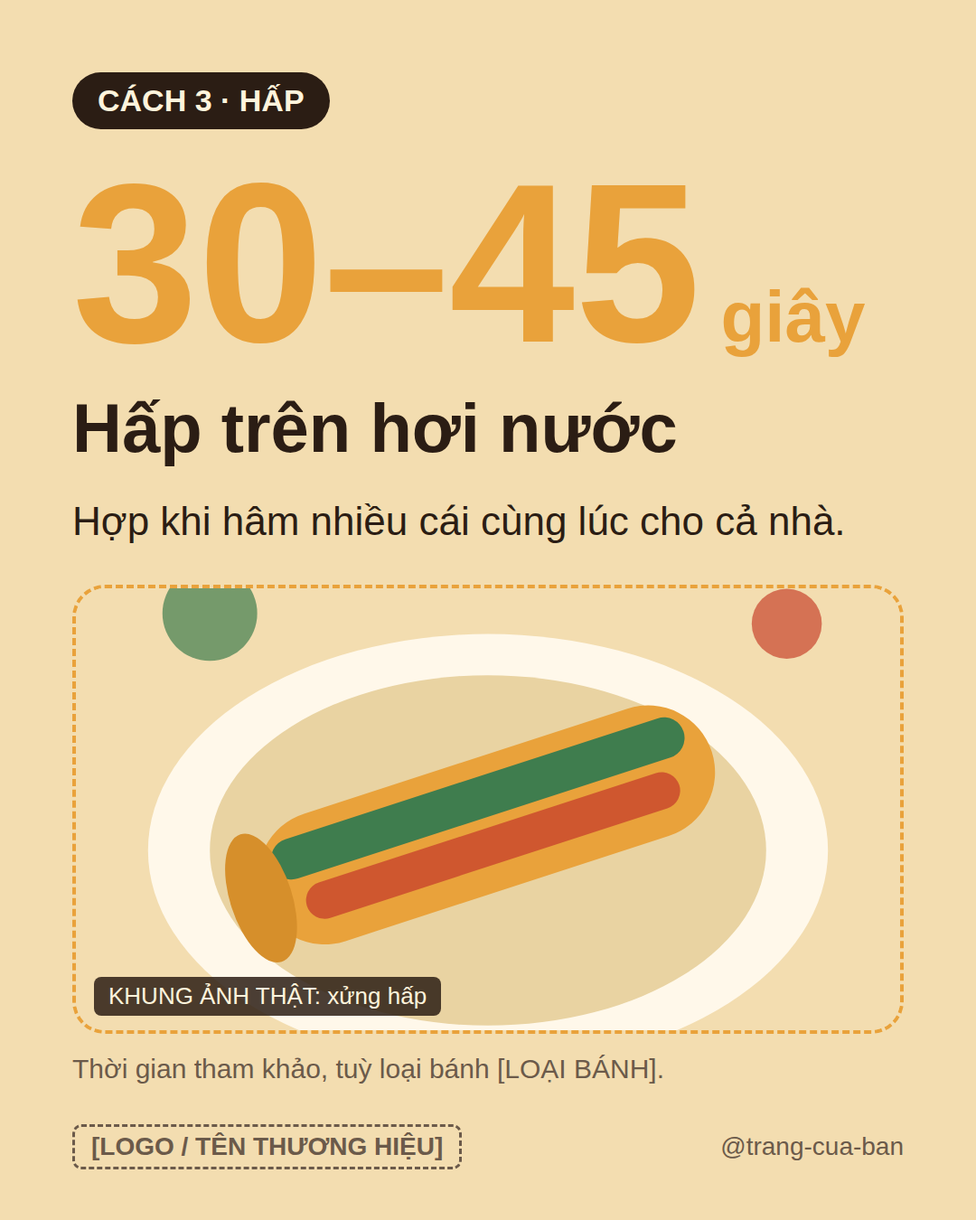
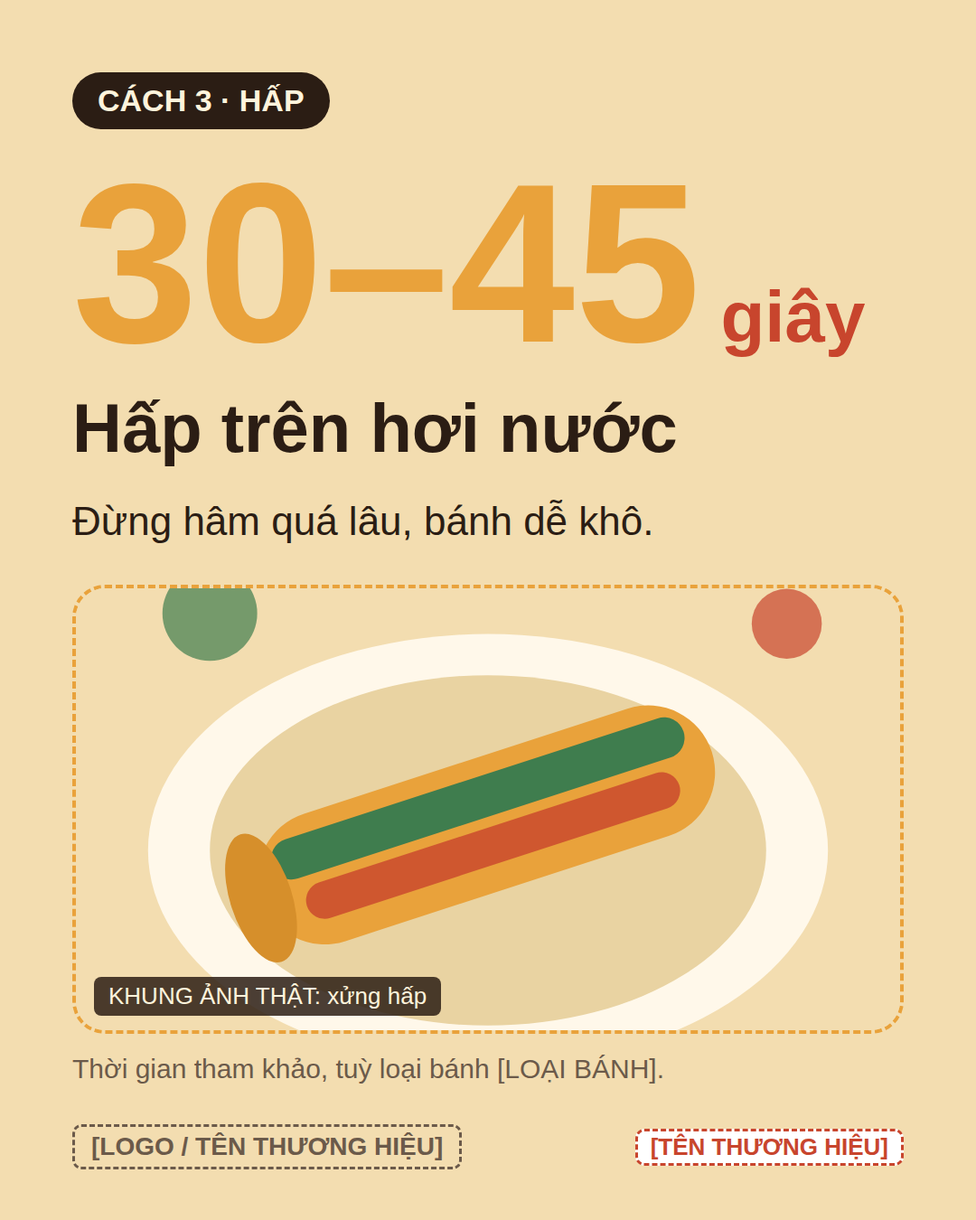
Marketing: sửa thiết kế và bài 7 tortillas vòng 1
Claude-Session: https://claude.ai/code/session_01Kq3X1y8geurvq5mnJxo66X

Changed region(s): [[0.0917, 0.4044, 0.8556, 0.4667], [0.6417, 0.9022, 0.9472, 0.9644], [0.7333, 0.2178, 0.8861, 0.3111]]

diff --git a/marketing/2026-10-03-ke-hoach-1-tuan-10-bai-banh-tortillas/mau/a-carousel-ham-banh.html b/marketing/2026-10-03-ke-hoach-1-tuan-10-bai-banh-tortillas/mau/a-carousel-ham-banh.html
@@ -8,42 +8,42 @@
 .s2{background:var(--bot)} .s3{background:#FBE3B8} .dk{background:var(--nau);color:var(--kem)}
 </style></head><body>
 <section class="slide" id="s1" style="background:var(--vang)">
- <span class="tag" style="background:var(--nau)">MẸO BẾP 10 GIÂY</span>
+ <span class="tag" style="background:var(--nau)">MẸO BẾP NHANH</span>
  <div class="h1" style="margin-top:50px">Hâm bánh<br>mềm, không khô:<br><span style="color:var(--kem)">3 cách</span></div>
  <div class="photo" style="height:430px;margin-top:50px;border-color:var(--nau)"><svg viewBox="0 0 800 600" preserveAspectRatio="xMidYMid slice"><rect width="800" height="600" fill="#F3DDB0"/><ellipse cx="400" cy="340" rx="330" ry="210" fill="#fff8ea"/><ellipse cx="400" cy="340" rx="270" ry="170" fill="#e9d3a2"/><g transform="rotate(-18 400 320)"><rect x="170" y="250" width="460" height="130" rx="65" fill="#E9A23B"/><rect x="190" y="268" width="420" height="40" rx="20" fill="#3F7D4E"/><rect x="210" y="318" width="380" height="36" rx="18" fill="#C8452D" opacity=".8"/><ellipse cx="170" cy="315" rx="30" ry="65" fill="#d68f2b"/></g><circle cx="130" cy="110" r="46" fill="#3F7D4E" opacity=".7"/><circle cx="690" cy="120" r="34" fill="#C8452D" opacity=".7"/></svg><span class="cap">KHUNG ẢNH THẬT: bánh vừa hâm, gập đôi</span></div>
- <div class="body" style="margin-top:36px;font-weight:700">Vuốt sang để xem →</div><div class="foot"><span class="logo">[LOGO / TÊN THƯƠNG HIỆU]</span><span>@trang-cua-ban</span></div>
+ <div class="body" style="margin-top:36px;font-weight:700">Vuốt sang để xem →</div><div class="foot"><span class="logo">[LOGO / TÊN THƯƠNG HIỆU]</span><span class="blank" style="font-size:26px">[TÊN THƯƠNG HIỆU]</span></div>
 </section>
 <section class="slide s2" id="s2">
  <span class="tag">CÁCH 1 · CHẢO</span>
- <div class="num" style="margin-top:30px">10–15<span style="font-size:80px"> giây</span></div>
+ <div class="num" style="margin-top:30px">10–15<span style="font-size:80px;color:var(--ot)"> giây</span></div>
  <div class="h2" style="margin-top:20px">Mỗi mặt trên chảo nóng</div>
- <div class="body" style="margin-top:30px">Không cần dầu. Lật khi bánh phồng nhẹ và thơm.</div>
  <div class="photo pf"><svg viewBox="0 0 800 600" preserveAspectRatio="xMidYMid slice"><rect width="800" height="600" fill="#F3DDB0"/><ellipse cx="400" cy="340" rx="330" ry="210" fill="#fff8ea"/><ellipse cx="400" cy="340" rx="270" ry="170" fill="#e9d3a2"/><g transform="rotate(-18 400 320)"><rect x="170" y="250" width="460" height="130" rx="65" fill="#E9A23B"/><rect x="190" y="268" width="420" height="40" rx="20" fill="#3F7D4E"/><rect x="210" y="318" width="380" height="36" rx="18" fill="#C8452D" opacity=".8"/><ellipse cx="170" cy="315" rx="30" ry="65" fill="#d68f2b"/></g><circle cx="130" cy="110" r="46" fill="#3F7D4E" opacity=".7"/><circle cx="690" cy="120" r="34" fill="#C8452D" opacity=".7"/></svg><span class="cap">KHUNG ẢNH THẬT: bánh trên chảo</span></div>
- <div class="note" style="margin:22px 0 0">Thời gian tham khảo, tuỳ loại bánh [LOẠI BÁNH].</div><div class="foot"><span class="logo">[LOGO / TÊN THƯƠNG HIỆU]</span><span>@trang-cua-ban</span></div>
+ <div class="note" style="margin:22px 0 0">Thời gian tham khảo, tuỳ loại bánh [LOẠI BÁNH].</div><div class="foot"><span class="logo">[LOGO / TÊN THƯƠNG HIỆU]</span><span class="blank" style="font-size:26px">[TÊN THƯƠNG HIỆU]</span></div>
 </section>
 <section class="slide s3" id="s3">
  <span class="tag" style="background:var(--la)">CÁCH 2 · LÒ VI SÓNG</span>
- <div class="num" style="margin-top:30px">15–30<span style="font-size:80px"> giây</span></div>
- <div class="h2" style="margin-top:20px">Bọc khăn ẩm, 1 lớp</div>
- <div class="body" style="margin-top:30px">Hơi ẩm giữ bánh mềm, dễ cuốn, ít nứt.</div>
+ <div class="num" style="margin-top:30px">15–30<span style="font-size:80px;color:var(--ot)"> giây</span></div>
+ <div class="h2" style="margin-top:20px">Bọc khăn/giấy bếp ẩm</div>
+ <div class="body" style="margin-top:30px">Đừng cho quá nhiều sốt, bánh dễ nhão.</div>
  <div class="photo pf"><svg viewBox="0 0 800 600" preserveAspectRatio="xMidYMid slice"><rect width="800" height="600" fill="#F3DDB0"/><ellipse cx="400" cy="340" rx="330" ry="210" fill="#fff8ea"/><ellipse cx="400" cy="340" rx="270" ry="170" fill="#e9d3a2"/><g transform="rotate(-18 400 320)"><rect x="170" y="250" width="460" height="130" rx="65" fill="#E9A23B"/><rect x="190" y="268" width="420" height="40" rx="20" fill="#3F7D4E"/><rect x="210" y="318" width="380" height="36" rx="18" fill="#C8452D" opacity=".8"/><ellipse cx="170" cy="315" rx="30" ry="65" fill="#d68f2b"/></g><circle cx="130" cy="110" r="46" fill="#3F7D4E" opacity=".7"/><circle cx="690" cy="120" r="34" fill="#C8452D" opacity=".7"/></svg><span class="cap">KHUNG ẢNH THẬT: bánh bọc khăn ẩm</span></div>
- <div class="note" style="margin:22px 0 0">Thời gian tham khảo, tuỳ loại bánh [LOẠI BÁNH].</div><div class="foot"><span class="logo">[LOGO / TÊN THƯƠNG HIỆU]</span><span>@trang-cua-ban</span></div>
+ <div class="note" style="margin:22px 0 0">Thời gian tham khảo, tuỳ loại bánh [LOẠI BÁNH].</div><div class="foot"><span class="logo">[LOGO / TÊN THƯƠNG HIỆU]</span><span class="blank" style="font-size:26px">[TÊN THƯƠNG HIỆU]</span></div>
 </section>
 <section class="slide s2" id="s4">
  <span class="tag" style="background:var(--nau)">CÁCH 3 · HẤP</span>
- <div class="num" style="margin-top:30px">30–45<span style="font-size:80px"> giây</span></div>
+ <div class="num" style="margin-top:30px">30–45<span style="font-size:80px;color:var(--ot)"> giây</span></div>
  <div class="h2" style="margin-top:20px">Hấp trên hơi nước</div>
- <div class="body" style="margin-top:30px">Hợp khi hâm nhiều cái cùng lúc cho cả nhà.</div>
+ <div class="body" style="margin-top:30px">Đừng hâm quá lâu, bánh dễ khô.</div>
  <div class="photo pf"><svg viewBox="0 0 800 600" preserveAspectRatio="xMidYMid slice"><rect width="800" height="600" fill="#F3DDB0"/><ellipse cx="400" cy="340" rx="330" ry="210" fill="#fff8ea"/><ellipse cx="400" cy="340" rx="270" ry="170" fill="#e9d3a2"/><g transform="rotate(-18 400 320)"><rect x="170" y="250" width="460" height="130" rx="65" fill="#E9A23B"/><rect x="190" y="268" width="420" height="40" rx="20" fill="#3F7D4E"/><rect x="210" y="318" width="380" height="36" rx="18" fill="#C8452D" opacity=".8"/><ellipse cx="170" cy="315" rx="30" ry="65" fill="#d68f2b"/></g><circle cx="130" cy="110" r="46" fill="#3F7D4E" opacity=".7"/><circle cx="690" cy="120" r="34" fill="#C8452D" opacity=".7"/></svg><span class="cap">KHUNG ẢNH THẬT: xửng hấp</span></div>
- <div class="note" style="margin:22px 0 0">Thời gian tham khảo, tuỳ loại bánh [LOẠI BÁNH].</div><div class="foot"><span class="logo">[LOGO / TÊN THƯƠNG HIỆU]</span><span>@trang-cua-ban</span></div>
+ <div class="note" style="margin:22px 0 0">Thời gian tham khảo, tuỳ loại bánh [LOẠI BÁNH].</div><div class="foot"><span class="logo">[LOGO / TÊN THƯƠNG HIỆU]</span><span class="blank" style="font-size:26px">[TÊN THƯƠNG HIỆU]</span></div>
 </section>
 <section class="slide dk" id="s5">
  <span class="tag" style="background:var(--vang);color:var(--nau)">NHỚ NHÉ</span>
  <div class="h1" style="margin-top:50px;font-size:130px">Hâm vừa đủ,<br>sốt vừa đủ.</div>
  <div class="body" style="margin-top:50px">Hâm lâu thì khô, rách. Sốt nhiều thì nhão, khó cuốn.</div>
  <div style="margin-top:40px;font-size:40px;line-height:1.7;color:var(--vang);font-weight:700">Chảo · 10–15 giây/mặt<br>Lò vi sóng · 15–30 giây<br>Hấp · 30–45 giây</div>
+ <div style="margin-top:14px;font-size:30px;color:#d9c9a8">Thời gian tham khảo, tuỳ loại bánh.</div>
  <div style="margin-top:auto;background:var(--vang);color:var(--nau);border-radius:36px;padding:44px 48px">
   <div class="h2" style="font-size:64px">Lưu bài về bếp 🔖</div>
   <div class="body" style="margin-top:12px">Nhắn <b>[CÁCH ĐẶT HÀNG]</b> nếu cần bánh.</div></div>
- <div class="foot" style="color:#d9c9a8"><span class="logo" style="border-color:#d9c9a8">[LOGO / TÊN THƯƠNG HIỆU]</span><span>@trang-cua-ban</span></div>
+ <div class="foot" style="color:#d9c9a8"><span class="logo" style="border-color:#d9c9a8">[LOGO / TÊN THƯƠNG HIỆU]</span><span class="blank" style="font-size:26px">[TÊN THƯƠNG HIỆU]</span></div>
 </section></body></html>

diff --git a/marketing/2026-10-03-ke-hoach-1-tuan-10-bai-banh-tortillas/mau/b-the-cong-thuc-wrap-ga.html b/marketing/2026-10-03-ke-hoach-1-tuan-10-bai-banh-tortillas/mau/b-the-cong-thuc-wrap-ga.html
@@ -16,13 +16,13 @@
  <div class="photo" style="height:290px;margin-top:30px"><svg viewBox="0 0 800 600" preserveAspectRatio="xMidYMid slice"><rect width="800" height="600" fill="#F3DDB0"/><ellipse cx="400" cy="340" rx="330" ry="210" fill="#fff8ea"/><ellipse cx="400" cy="340" rx="270" ry="170" fill="#e9d3a2"/><g transform="rotate(-18 400 320)"><rect x="170" y="250" width="460" height="130" rx="65" fill="#E9A23B"/><rect x="190" y="268" width="420" height="40" rx="20" fill="#3F7D4E"/><rect x="210" y="318" width="380" height="36" rx="18" fill="#C8452D" opacity=".8"/><ellipse cx="170" cy="315" rx="30" ry="65" fill="#d68f2b"/></g><circle cx="130" cy="110" r="46" fill="#3F7D4E" opacity=".7"/><circle cx="690" cy="120" r="34" fill="#C8452D" opacity=".7"/></svg><span class="cap">KHUNG ẢNH THẬT: wrap cắt đôi</span></div>
  <div class="cols">
   <div class="card" style="flex:.85"><h3>Chuẩn bị</h3><ul>
-   <li>Bánh tortilla</li><li>Gà áp chảo</li><li>Xà lách, dưa leo</li><li>Sốt mayo chanh</li></ul></div>
+   <li><span class="blank" style="font-size:28px;padding:0 8px">[LOẠI BÁNH]</span></li><li>Gà ướp tỏi, muối, tiêu</li><li>Xà lách, dưa leo, cà chua, rau thơm</li><li>Mayo trộn chanh</li></ul></div>
   <div class="card" style="flex:1.15"><h3>Làm nhanh</h3>
    <div class="step"><b>1</b><span>Áp chảo gà cho chín vàng.</span></div>
    <div class="step"><b>2</b><span>Hâm bánh trên chảo nóng.</span></div>
-   <div class="step"><b>3</b><span>Xếp rau, gà, quệt sốt.</span></div>
+   <div class="step"><b>3</b><span>Xếp rau, gà, rưới sốt vừa phải.</span></div>
    <div class="step"><b>4</b><span>Cuốn chặt, cắt đôi.</span></div></div>
  </div>
- <div style="margin-top:20px;font-size:30px;color:var(--xam)">Định lượng: <span class="blank">[THEO CÔNG THỨC BÀI VIẾT]</span></div>
- <div class="foot"><span class="logo">[LOGO / TÊN THƯƠNG HIỆU]</span><span>@trang-cua-ban</span></div>
+ <div style="margin-top:20px;font-size:30px;color:var(--xam)">Định lượng: <b>2 tấm bánh · 1–2 phần · khoảng 10 phút (ước tính)</b></div>
+ <div class="foot"><span class="logo">[LOGO / TÊN THƯƠNG HIỆU]</span><span class="blank" style="font-size:26px">[TÊN THƯƠNG HIỆU]</span></div>
 </section></body></html>

diff --git a/marketing/2026-10-03-ke-hoach-1-tuan-10-bai-banh-tortillas/mau/c-bai-ban-hang.html b/marketing/2026-10-03-ke-hoach-1-tuan-10-bai-banh-tortillas/mau/c-bai-ban-hang.html
@@ -7,7 +7,7 @@
 <section class="slide" id="c" style="padding:0;background:var(--nau)">
  <div style="padding:70px 80px 0;background:var(--vang)">
   <span class="tag" style="background:var(--nau)">ĐẶT BÁNH CUỐI TUẦN</span>
-  <div class="h1" style="font-size:96px;margin-top:20px;padding-bottom:36px">Bánh mềm,<br>cuốn là ngon.</div>
+  <div class="h1" style="font-size:96px;margin-top:20px;padding-bottom:36px">Cuối tuần cuốn gì?<br>Nhắn mình!</div>
  </div>
  <div class="photo" style="margin:-10px 80px 0;height:290px;border-color:var(--kem)"><svg viewBox="0 0 800 600" preserveAspectRatio="xMidYMid slice"><rect width="800" height="600" fill="#F3DDB0"/><ellipse cx="400" cy="340" rx="330" ry="210" fill="#fff8ea"/><ellipse cx="400" cy="340" rx="270" ry="170" fill="#e9d3a2"/><g transform="rotate(-18 400 320)"><rect x="170" y="250" width="460" height="130" rx="65" fill="#E9A23B"/><rect x="190" y="268" width="420" height="40" rx="20" fill="#3F7D4E"/><rect x="210" y="318" width="380" height="36" rx="18" fill="#C8452D" opacity=".8"/><ellipse cx="170" cy="315" rx="30" ry="65" fill="#d68f2b"/></g><circle cx="130" cy="110" r="46" fill="#3F7D4E" opacity=".7"/><circle cx="690" cy="120" r="34" fill="#C8452D" opacity=".7"/></svg><span class="cap">KHUNG ẢNH THẬT: sản phẩm của trang</span></div>
  <div style="padding:14px 80px 0;color:var(--kem)">
@@ -19,5 +19,5 @@
   <div class="row"><span>Khu vực giao</span><span class="blank">[KHU VỰC GIAO]</span></div>
   <div class="row" style="border:0"><span>Đặt hàng</span><span class="blank">[CÁCH ĐẶT HÀNG]</span></div>
  </div>
- <div class="foot" style="color:#d9c9a8"><span class="logo" style="border-color:#d9c9a8">[LOGO / TÊN THƯƠNG HIỆU]</span><span>@trang-cua-ban</span></div>
+ <div class="foot" style="color:#d9c9a8"><span class="logo" style="border-color:#d9c9a8">[LOGO / TÊN THƯƠNG HIỆU]</span><span class="blank" style="font-size:26px">[TÊN THƯƠNG HIỆU]</span></div>
 </section></body></html>

diff --git a/marketing/2026-10-03-ke-hoach-1-tuan-10-bai-banh-tortillas/thiet-ke.md b/marketing/2026-10-03-ke-hoach-1-tuan-10-bai-banh-tortillas/thiet-ke.md
@@ -56,28 +56,37 @@ Tỉ lệ: 60% kem/bột mì, 25% vàng, 10% nâu, 5% ớt/xanh. Độ tương p
 Phần "prompt" luôn dùng cho nền/minh hoạ, theo quy tắc 0.2. Hậu tố chung cho mọi prompt: `Warm natural window light, soft shadows, shallow depth of field, 4:5 vertical composition, clean empty space on the upper third for text, warm palette of cream, golden yellow, fresh green and chili red, photorealistic food photography, no text, no logo, no brand packaging, no watermark.` (gọi tắt là **[HẬU TỐ]**).
 
 ### Bài 1 · T2 05/10 11:30 · Giới thiệu sản phẩm · ảnh đơn 1080x1350
-- Bố cục: nửa trên nền kem, chữ; nửa dưới khung ảnh thật (bánh xếp chồng, một cái gập đôi). Góc dưới trái ô logo, góc dưới phải tên trang.
-- Chữ trên ảnh: "Bánh tortilla: cuốn gì cũng được." (6 chữ). Nhãn nhỏ: "LÀM QUEN NHÉ".
-- Ảnh: ưu tiên ảnh thật chồng bánh. Thay thế nếu chưa có ảnh: bàn bếp minh hoạ, không thể hiện bánh của trang.
+- Bố cục: nửa trên nền kem, chữ; nửa dưới khung ảnh thật (bánh xếp chồng, một cái gập đôi). Góc dưới trái ô logo, góc dưới phải ô trống `[TÊN THƯƠNG HIỆU]` viền đỏ.
+- Chữ trên ảnh (khớp bài viết): "Một tấm bánh, cuốn gì cũng ngon". Nhãn nhỏ: "LÀM QUEN NHÉ".
+- Ảnh: ưu tiên ảnh thật chồng bánh. Thay thế nếu chưa có ảnh: bàn bếp minh hoạ, không thể hiện bánh của trang (ghi "Ảnh minh hoạ").
 - Prompt: `Top-down view of a rustic kitchen table with a wooden board, small bowls of shredded lettuce, sliced cucumber, grilled chicken strips, lime wedges and chili, soft folded flour tortillas as generic flatbread, cheerful Vietnamese home kitchen mood. [HẬU TỐ]`
 
-### Bài 2 · T2 05/10 19:30 · Tương tác · ảnh đơn 1080x1350
-- Bố cục: câu hỏi lớn giữa khung, 3 lựa chọn dạng thẻ bo tròn xếp dọc, mỗi thẻ có icon vẽ (gà, bò, rau).
-- Chữ trên ảnh: "Nhà bạn hay cuốn gì?" (5 chữ). Thẻ: "Gà", "Bò xào", "Rau trứng" (bình luận để chọn).
-- Màu: nền vàng ngô, thẻ kem, chữ nâu.
-- Ảnh: không cần ảnh món; dùng hình vẽ phẳng. Nếu muốn, nền họa tiết bánh tròn mờ.
+### Bài 2 · T2 05/10 18:30 · Tương tác · ảnh đơn 1080x1350
+- Bố cục: câu hỏi lớn ở nửa trên; nửa dưới lưới 2x2 bốn thẻ bo tròn, mỗi thẻ một chữ cái lớn và icon vẽ phẳng.
+- Chữ trên ảnh (khớp bài viết): "Cuốn gì tối nay? A, B, C hay D?". Bốn thẻ đúng 4 lựa chọn của bài viết: **A** Gà áp chảo + rau sống; **B** Bò xào + hành tây; **C** Trứng + phô mai; **D** Nhân khác (kể mình nghe).
+- Màu: nền vàng ngô, thẻ kem, chữ nâu, chữ cái ớt đỏ trong vòng tròn kem. Chân hình: "Bình luận chữ cái bạn chọn".
+- Ảnh: không cần ảnh món; hình vẽ phẳng. Nếu muốn, nền họa tiết bánh tròn mờ.
 - Prompt (tuỳ chọn, nền họa tiết): `Seamless flat illustration pattern of round flatbreads, chili peppers, lime slices and herb leaves on a golden yellow background, minimal vector style, low contrast, large empty center. no text, no logo, no watermark.`
 
-### Bài 3 · T3 06/10 11:00 · Công thức wrap gà 10 phút · thẻ công thức 1080x1350
-- **Có bản mẫu:** `mau/b-the-cong-thuc-wrap-ga.html` + `.png`.
-- Bố cục: nhãn "CÔNG THỨC · 10 PHÚT", tiêu đề, khung ảnh thật wrap cắt đôi (ngang, cao ~290 px), 2 thẻ trắng: "Chuẩn bị" (4 nguyên liệu) và "Làm nhanh" (4 bước đánh số).
-- Chữ trên ảnh: "Wrap gà mềm, dễ cuốn" (6 chữ) + 4 bước ngắn (là nội dung thẻ, biên tập sẽ khớp theo bài viết). Định lượng để trống `[THEO CÔNG THỨC BÀI VIẾT]` đến khi bài viết chốt.
-- Prompt: `45-degree close-up of a chicken wrap cut in half on a wooden board, showing layers of seared chicken, crisp lettuce, cucumber and creamy lime mayo, soft folded tortilla, a hand holding one half, light steam. [HẬU TỐ]`
+### Bài 3 · T3 06/10 11:00 · Wrap gà 10 phút · Reels 30–45 giây, 1080x1920 (gợi ý chạy quảng cáo)
+- **Có bản mẫu thẻ công thức (ảnh bìa/ảnh đăng kèm):** `mau/b-the-cong-thuc-wrap-ga.html` + `.png` (1080x1350). Thẻ ghi: "Bánh [LOẠI BÁNH]", gà ướp tỏi muối tiêu, xà lách–dưa leo–cà chua–rau thơm, mayo chanh; bước 3 "Xếp rau, gà, rưới sốt vừa phải"; định lượng "2 tấm bánh · 1–2 phần · khoảng 10 phút (ước tính)".
+- Chữ trên ảnh/bìa (khớp bài viết): "Wrap gà mềm, dễ cuốn", nhãn "CÔNG THỨC · 10 PHÚT".
+- **Kịch bản Reels (tổng khoảng 42 giây).** Chữ an toàn: chừa 180 px trên, 250 px dưới. Phụ đề mỗi cảnh ≤ 6 chữ.
+  1. 0–3s, hook: thành phẩm wrap cắt đôi, nhìn thấy lớp nhân. Phụ đề: "Wrap gà 10 phút" + nhãn CÔNG THỨC · 10 PHÚT.
+  2. 3–8s: bày nguyên liệu trên thớt (2 tấm bánh, gà, rau, mayo chanh). Phụ đề: "2 tấm bánh, 1–2 phần".
+  3. 8–16s: ướp gà với tỏi, muối, tiêu; áp chảo cho chín vàng. Phụ đề: "Áp chảo gà vàng".
+  4. 16–23s: hâm bánh trên chảo nóng, mỗi mặt 10–15 giây. Phụ đề: "Hâm bánh cho mềm" + chú thích nhỏ "tham khảo, tuỳ loại bánh".
+  5. 23–31s: xếp rau, gà; rưới sốt vừa phải. Phụ đề: "Rưới sốt vừa phải".
+  6. 31–37s: gập hai mép, cuốn chặt, cắt đôi. Phụ đề: "Cuốn chặt, cắt đôi".
+  7. 37–42s, chốt: thành phẩm + mẹo "Đừng rưới quá nhiều sốt kẻo nhão" + "Lưu bài làm tối nay" + ô `[TÊN THƯƠNG HIỆU]`.
+- Bìa Reels: thẻ công thức hoặc khung wrap cắt đôi, chữ "Wrap gà mềm, dễ cuốn" nền kem. Khi có video, dựng lại bìa 9:16 theo cùng chữ; thẻ 4:5 đăng kèm làm ảnh lưu công thức.
+- Quay bằng đồ thật của chủ trang; thời gian nấu là ước tính, nấu thử và bấm giờ trước khi quay, sửa phụ đề nếu khác.
+- Prompt (bìa/nền minh hoạ nếu chưa có ảnh): `45-degree close-up of a chicken wrap cut in half on a wooden board, showing layers of seared chicken, crisp lettuce, cucumber and creamy lime mayo, soft folded tortilla, a hand holding one half, light steam. [HẬU TỐ]`
 
 ### Bài 4 · T4 07/10 17:30 · Mẹo hâm bánh mềm 3 cách · carousel 5 slide 1080x1350
 - **Có bản mẫu:** `mau/a-carousel-ham-banh.html` + `a-carousel-ham-banh-1..5.png`.
-- Slide 1 bìa: "Hâm bánh mềm, không khô: 3 cách" (nền vàng, khung ảnh thật). Slide 2: Chảo, "10–15 giây". Slide 3: Lò vi sóng, "15–30 giây", bọc khăn ẩm. Slide 4: Hấp, "30–45 giây". Slide 5: "Hâm vừa đủ, sốt vừa đủ." + kêu gọi lưu bài + `[CÁCH ĐẶT HÀNG]`.
-- Mỗi slide một con số cực lớn, một ảnh minh hoạ cách hâm (ảnh thật càng tốt).
+- Slide 1 bìa: nhãn "MẸO BẾP NHANH", "Hâm bánh mềm, không khô: 3 cách" (nền vàng, khung ảnh thật). Slide 2: Chảo, "10–15 giây", "Mỗi mặt trên chảo nóng". Slide 3: Lò vi sóng, "15–30 giây", "Bọc khăn/giấy bếp ẩm". Slide 4: Hấp, "30–45 giây". Slide 5: "Hâm vừa đủ, sốt vừa đủ." + tóm 3 mốc thời gian kèm "Thời gian tham khảo, tuỳ loại bánh" + kêu gọi lưu bài + `[CÁCH ĐẶT HÀNG]`.
+- Chữ "giây" màu ớt đỏ (không dùng vàng trên nền kem). Mỗi slide một con số cực lớn, một ảnh minh hoạ cách hâm (ảnh thật càng tốt).
 - Prompts (mỗi slide 1 ảnh, dùng nếu chưa có ảnh thật; không thể hiện bánh của trang):
   - Chảo: `Close-up of a flatbread warming in a dry non-stick pan, gentle puff of steam, wooden spatula, warm kitchen light. [HẬU TỐ]`
   - Lò vi sóng: `A flatbread wrapped in a slightly damp white kitchen towel on a ceramic plate beside a microwave, home kitchen. [HẬU TỐ]`
@@ -85,55 +94,76 @@ Phần "prompt" luôn dùng cho nền/minh hoạ, theo quy tắc 0.2. Hậu tố
 
 ### Bài 5 · T5 08/10 11:30 · Hỏi đáp: sợ khô/nứt · ảnh đơn 1080x1350
 - Bố cục: dạng "hỏi - đáp": bong bóng hỏi trên cùng (nền ớt, chữ kem), bong bóng đáp bên dưới (nền xanh rau), giữa là khung ảnh thật bánh gập đôi không nứt.
-- Chữ trên ảnh: hỏi "Bánh bị khô, nứt?" (4 chữ); đáp "Hâm ẩm, đừng hâm lâu." (5 chữ).
-- Không nêu bảo quản/hạn dùng nếu chưa xác minh; chỗ trống nhỏ `[HẠN DÙNG/BẢO QUẢN]` ở chân hình nếu bài viết có nhắc.
+- Chữ trên ảnh (khớp bài viết): hỏi/tiêu đề "Bánh khô, nứt? Mình giải đáp"; đáp "Hâm vừa đủ, đừng hâm lâu." (chú thích nhỏ "10–15 giây mỗi mặt trên chảo, tham khảo, tuỳ loại bánh").
+- Không nêu bảo quản/hạn dùng nếu chưa xác minh; chỗ trống nhỏ `[HẠN DÙNG/BẢO QUẢN]` ở chân hình.
 - Prompt: `Close-up of hands gently folding a soft warm flatbread in half without cracking, flour-dusted wooden counter, a small bowl of filling in soft focus. [HẬU TỐ]`
 
-### Bài 6 · T6 09/10 11:30 · Bán hàng/đặt cuối tuần · ảnh đơn 1080x1350 (nên chạy thử quảng cáo)
-- **Có bản mẫu:** `mau/c-bai-ban-hang.html` + `.png`.
-- Bố cục: đầu trang nền vàng với tiêu đề, khung ảnh thật sản phẩm, bảng 7 dòng chỗ trống (thương hiệu, loại bánh, quy cách, giá, ưu đãi, khu vực giao, cách đặt) trên nền nâu; chân trang logo.
-- Chữ trên ảnh: "Bánh mềm, cuốn là ngon." (6 chữ), nhãn "ĐẶT BÁNH CUỐI TUẦN". Mọi thông tin khác là chỗ trống phải điền.
+### Bài 6 · T6 09/10 11:30 · Bán hàng/đặt cuối tuần · ảnh đơn 1080x1350 (gợi ý chạy quảng cáo)
+- **Có bản mẫu:** `mau/c-bai-ban-hang.html` + `.png`. Định dạng chốt: ảnh đơn.
+- Bố cục: đầu trang nền vàng với tiêu đề, khung ảnh thật sản phẩm, bảng 7 dòng chỗ trống (thương hiệu, loại bánh, quy cách, giá, ưu đãi, khu vực giao, cách đặt) trên nền nâu; chân trang logo và ô `[TÊN THƯƠNG HIỆU]`.
+- Chữ trên ảnh (khớp bài viết): "Cuối tuần cuốn gì? Nhắn mình!", nhãn "ĐẶT BÁNH CUỐI TUẦN". Không dùng "Bánh mềm". Mọi thông tin khác là chỗ trống phải điền.
 - Bắt buộc ảnh thật sản phẩm ở khung ảnh. Nếu chưa có thì không đăng bài này (ảnh AI không thay được).
 - Prompt (chỉ làm nền cho phần phụ, không đặt vào khung sản phẩm): `Flat-lay of fresh herbs, lime, chili and a linen napkin on a warm cream surface, large empty center for product photo, soft light. [HẬU TỐ]`
 
-### Bài 7 · T6 09/10 18:00 · Pizza tortilla chảo · Reels 1080x1920, 20 giây
-- Kịch bản cảnh:
-  1. 0–2s: top-down chảo trống, chữ "Pizza 10 phút." (3 chữ).
-  2. 2–6s: đặt bánh lên chảo, quệt sốt cà (cận cảnh tay).
-  3. 6–10s: rắc phô mai, xúc xích/nấm.
-  4. 10–15s: đậy nắp, cut cảnh phô mai chảy.
-  5. 15–18s: cắt miếng, kéo sợi phô mai.
-  6. 18–20s: đĩa thành phẩm + "Lưu lại làm tối nay." (5 chữ) + logo.
-- Nhạc vui nhịp nhanh (nhạc không bản quyền hoặc có sẵn trong thư viện Facebook). Phụ đề tiếng Việt bám theo từng cảnh, mỗi cảnh ≤ 6 chữ.
-- Bìa video: top-down pizza cắt miếng, chữ "Pizza 10 phút" nền vàng.
-- Prompt bìa/nền: `Top-down view of a round pizza made on a thin flatbread in a skillet, melted cheese stretching from a lifted slice, tomato sauce, mushrooms, sliced sausage, rustic wooden table. [HẬU TỐ, 9:16 vertical]` 
+### Bài 7 · T6 09/10 18:00 · Pizza tortilla chảo · Reels 30 giây, 1080x1920
+- Chữ trên video (khớp bài viết): "Pizza chảo 10 phút, khỏi lò". Phụ đề mỗi cảnh ≤ 6 chữ; chừa 180 px trên, 250 px dưới.
+- Kịch bản cảnh (30 giây):
+  1. 0–3s, hook: top-down chảo trống, rồi cắt sang pizza thành phẩm. Chữ: "Pizza chảo 10 phút, khỏi lò".
+  2. 3–8s: bày nguyên liệu (1 tấm bánh, sốt cà, phô mai, xúc xích hoặc nấm). Phụ đề: "Chỉ cần 4 món".
+  3. 8–13s: đặt bánh vào chảo, lửa nhỏ. Phụ đề: "Bánh vào chảo, lửa nhỏ".
+  4. 13–19s: phết sốt cà, rải phô mai và xúc xích (hoặc nấm) (cận cảnh tay). Phụ đề: "Sốt, phô mai, topping".
+  5. 19–25s: đậy nắp cho phô mai chảy; cắt cảnh nắp mở. Phụ đề: "Đậy nắp cho phô mai chảy".
+  6. 25–28s: cắt miếng, kéo sợi phô mai. Phụ đề: "Cắt miếng, ăn nóng".
+  7. 28–30s: đĩa thành phẩm + "Lưu bài, làm xong khoe mình" + ô `[TÊN THƯƠNG HIỆU]`.
+- Lưu ý an toàn thực phẩm (chuyển viet-bai ở mục C1 của biên tập): xúc xích/nấm sống nên xào sơ hoặc thái mỏng, đậy nắp đến khi chín; chỉnh phụ đề cảnh 4–5 theo bản bài viết chốt.
+- Nhạc vui nhịp nhanh (không bản quyền hoặc thư viện Facebook).
+- Bìa video: top-down pizza cắt miếng, chữ "Pizza chảo 10 phút" nền vàng.
+- Prompt bìa/nền: `Top-down view of a round pizza made on a thin flatbread in a skillet, melted cheese stretching from a lifted slice, tomato sauce, mushrooms, sliced sausage, rustic wooden table. [HẬU TỐ, 9:16 vertical]`
 
-### Bài 8 · T7 10/10 10:00 · Tortilla cuốn kiểu Việt · carousel 4 slide 1080x1350
-- Slide 1 bìa: "Cuốn kiểu Việt: gà sả, bò xào" (6 chữ), nhãn "TORTILLA KIỂU VIỆT". Slide 2: nhân gà sả + rau thơm. Slide 3: nhân bò xào + dưa leo. Slide 4: nước mắm chua ngọt chấm kèm + "Bạn thích nhân nào?".
-- Ảnh thật cho mỗi slide; ảnh AI chỉ dùng cho nền rau thơm/nước chấm, không thay món của trang.
-- Prompt slide 1: `45-degree shot of a tortilla wrap filled with lemongrass chicken, herbs, cucumber and pickled vegetables, a small bowl of sweet-sour fish sauce dipping, Vietnamese home dining table, banana leaf placemat. [HẬU TỐ]`
-- Prompt slide 2–3: `Close-up of stir-fried beef with onions and herbs in a pan, steam rising, warm light. [HẬU TỐ]`
+### Bài 8 · T7 10/10 11:30 · Tortilla cuốn bò xào sả (kiểu Việt) · carousel 5 slide 1080x1350
+- Chữ bìa (khớp bài viết): "Tortilla cuốn bò xào sả", nhãn "TORTILLA KIỂU VIỆT".
+- Slide 1 bìa: tiêu đề + khung ảnh thật bánh cuốn bò xào. Slide 2 "Nguyên liệu": `[LOẠI BÁNH]`, thịt bò thái mỏng, sả băm, tỏi, dưa leo, rau thơm, hành tây, nước mắm chua ngọt. Slide 3 "Bước 1–2": xào bò với sả, tỏi trên lửa lớn cho thơm (ghi nhỏ: "thay gà nướng sả cũng được"); hâm bánh trên chảo nóng 10–15 giây mỗi mặt (tham khảo, tuỳ loại bánh). Slide 4 "Bước 3–4": xếp dưa leo, rau thơm, hành tây, bò xào; rưới ít nước mắm chua ngọt, cuốn chặt. Slide 5 "Mẹo + CTA": "Rưới nước mắm vừa phải, bánh mới không nhão." + "Lưu bài, cuối tuần thử liền" + `[CÁCH ĐẶT HÀNG]`.
+- Mỗi slide có chân trang logo và ô `[TÊN THƯƠNG HIỆU]`. Thời gian "khoảng 10–12 phút (ước tính)" ghi ở slide 2.
+- Ảnh thật cho mỗi slide; ảnh AI chỉ dùng cho nền rau thơm/nước chấm, không thay món của trang (ghi "Ảnh minh hoạ" nếu dùng).
+- Prompt slide 1: `45-degree shot of a tortilla wrap filled with stir-fried lemongrass beef, herbs, cucumber and onion, a small bowl of sweet-sour fish sauce dipping, Vietnamese home dining table. [HẬU TỐ]`
+- Prompt slide 3: `Close-up of stir-fried sliced beef with lemongrass, garlic and onions in a pan, steam rising, warm light. [HẬU TỐ]`
 
-### Bài 9 · CN 11/10 10:00 · Khách sỉ cho quán nhỏ · ảnh đơn 1080x1350
-- Bố cục: nền nâu đậm, tiêu đề kem, 3 ô biểu tượng (Số lượng, Giao hàng, Đặt trước) mỗi ô một chỗ trống: `[KÍCH CỠ/QUY CÁCH]`, `[KHU VỰC GIAO]`, `[CÁCH ĐẶT HÀNG]`. Giá sỉ: `[GIÁ SỈ]`.
-- Chữ trên ảnh: "Bán taco, wrap? Nhắn mình nhé." (6 chữ).
-- Không nêu giá/số lượng tối thiểu/hạn dùng khi chưa có. Hình ảnh: quầy xe đồ ăn minh hoạ (ảnh AI được phép vì là minh hoạ ngữ cảnh, không phải sản phẩm).
-- Prompt: `Small street food cart at golden hour with a row of wraps and tacos on a wooden counter, a friendly cook wrapping food, no readable signs, no logos, warm and busy mood, 4:5 vertical.` thêm `no text, no logo, no brand packaging, no watermark`.
+### Bài 9 · CN 11/10 11:30 · Khách sỉ cho quán nhỏ · ảnh đơn 1080x1350
+- Bố cục: nền nâu đậm, tiêu đề kem; khung ảnh khay bánh + món mẫu; dưới là bảng 8 ô trống chuẩn viền đỏ.
+- Chữ trên ảnh (khớp bài viết): "Bánh tortillas cho quán nhỏ".
+- 8 chỗ trống chuẩn, đủ như bài viết: `[TÊN THƯƠNG HIỆU]`, `[LOẠI BÁNH]`, `[KÍCH CỠ/QUY CÁCH]`, `[GIÁ]` (dòng "Giá sỉ"), `[HẠN DÙNG/BẢO QUẢN]`, `[KHU VỰC GIAO]`, `[ƯU ĐÃI]`, `[CÁCH ĐẶT HÀNG]`. Không dùng `[GIÁ SỈ]`.
+- Không nêu giá/số lượng tối thiểu/hạn dùng khi chưa có. Ưu tiên ảnh thật khay bánh + món mẫu (theo lịch). Nếu dùng ảnh AI quầy xe thì phải ghi "Ảnh minh hoạ" ở góc ảnh; ảnh AI chỉ để minh hoạ ngữ cảnh, không phải sản phẩm.
+- Prompt (chỉ khi dùng ảnh minh hoạ): `Small street food cart at golden hour with a row of wraps and tacos on a wooden counter, a friendly cook wrapping food, no readable signs, no logos, warm and busy mood, 4:5 vertical, no text, no logo, no brand packaging, no watermark.`
 
-### Bài 10 · CN 11/10 19:00 · Tổng kết tuần + nhắn tin đặt hàng · ảnh đơn 1080x1350
-- Bố cục: lưới 2x2 ảnh thật các món trong tuần (wrap gà, pizza, cuốn kiểu Việt, mẹo hâm) trên nền kem, tiêu đề phía trên, dải CTA cuối.
-- Chữ trên ảnh: "Tuần bánh mềm: bạn thích món nào?" (7 chữ) + "Nhắn mình để đặt" + `[CÁCH ĐẶT HÀNG]`.
+### Bài 10 · CN 11/10 18:30 · Tổng kết tuần + nhắn tin đặt hàng · ảnh đơn 1080x1350 (ảnh ghép 4 món)
+- Bố cục: lưới 2x2 ảnh thật 4 món đúng mục "Tuần qua mình chia sẻ": (1) 3 cách làm mềm bánh, (2) Wrap gà 10 phút, (3) Pizza tortilla chảo, (4) Tortilla cuốn bò xào sả. Nền kem, tiêu đề phía trên, dải CTA cuối.
+- Chữ trên ảnh (khớp bài viết): "Cuốn tiếp tuần mới nào!" + "Nhắn mình để đặt" + `[CÁCH ĐẶT HÀNG]`.
 - Ảnh: dùng ảnh thật/kết quả của các bài trước. Không cần ảnh AI.
 
 ## 6. Bản mẫu dựng sẵn (thư mục `mau/`)
 | File | Nội dung | Kích thước |
 |---|---|---|
 | `a-carousel-ham-banh.html`, `a-carousel-ham-banh-1.png` … `-5.png` | Bài 4: carousel mẹo hâm bánh mềm 3 cách | 1080x1350 x5 |
-| `b-the-cong-thuc-wrap-ga.html`, `.png` | Bài 3: thẻ công thức wrap gà 10 phút | 1080x1350 |
+| `b-the-cong-thuc-wrap-ga.html`, `.png` | Bài 3: thẻ công thức wrap gà (ảnh bìa/đăng kèm của Reels) | 1080x1350 |
 | `c-bai-ban-hang.html`, `.png` | Bài 6: ảnh bán hàng có chỗ trống | 1080x1350 |
 | `chung.css`, `chup.js` | Style chung, script chụp PNG | |
 
-Ghi chú bản mẫu: khung "KHUNG ẢNH THẬT" là hình khối minh hoạ (SVG), không phải ảnh sản phẩm; thay bằng ảnh thật của chủ trang. Viền đứt đỏ là chỗ trống cần điền. Muốn dựng lại PNG: chạy `node chup.js` trong thư mục `mau/` (cần playwright).
+Ghi chú bản mẫu: khung "KHUNG ẢNH THẬT" là hình khối minh hoạ (SVG), không phải ảnh sản phẩm; thay bằng ảnh thật của chủ trang. Viền đứt đỏ là chỗ trống cần điền (kể cả ô `[TÊN THƯƠNG HIỆU]` ở chân trang). Muốn dựng lại PNG: chạy `node chup.js` trong thư mục `mau/` (cần playwright).
 
 ## 7. Cần chủ trang cung cấp
 Logo, tên thương hiệu, màu thương hiệu thật; ảnh/video thật sản phẩm (bánh chồng, bánh gập đôi, bánh trong tay, wrap cắt đôi); thông tin điền vào các ô trống; xác nhận thời gian hâm cho đúng loại bánh.
+
+## Nhật ký sửa vòng 1 (2026-10-03)
+Nguồn chốt: lich-dang.md và bai-viet.md. Không sửa bai-viet.md, lich-dang.md, bien-tap.md.
+- Giờ đăng: bài 2 18:30, bài 8 11:30, bài 9 11:30, bài 10 18:30 (theo lịch).
+- Bài 1, 2, 5, 9, 10: chữ trên ảnh khớp bài viết. Bài 2 dùng 4 thẻ A/B/C/D.
+- Bài 3: giữ Reels 30–45 giây, thêm kịch bản 7 cảnh (~42s); thẻ công thức giữ làm bìa/ảnh đăng kèm. PNG: bỏ `[THEO CÔNG THỨC BÀI VIẾT]`, thay bằng "2 tấm bánh · 1–2 phần · khoảng 10 phút (ước tính)"; "Chuẩn bị" gồm `[LOẠI BÁNH]`, gà ướp tỏi muối tiêu, rau, mayo chanh; bước 3 "Xếp rau, gà, rưới sốt vừa phải".
+- Bài 6: PNG đổi tiêu đề "Cuối tuần cuốn gì? Nhắn mình!", bỏ "Bánh mềm"; chốt ảnh đơn.
+- Bài 7: Reels 30 giây (kịch bản 7 cảnh), chữ theo bài viết; ghi chú an toàn thực phẩm cho viet-bai (C1).
+- Bài 8: carousel 5 slide, chỉ bò xào sả (ghi "thay gà nướng sả cũng được"); bỏ "pickled vegetables", "banana leaf" khỏi prompt.
+- Bài 9: chỉ dùng 8 chỗ trống chuẩn (`[GIÁ]` thay `[GIÁ SỈ]`), đủ ô như bài viết; ảnh AI ghi "Ảnh minh hoạ".
+- Bài 10: ảnh ghép 4 món, bỏ "bánh mềm".
+- Carousel bài 4 (PNG chụp lại): slide 1 "MẸO BẾP NHANH" (bỏ "10 GIÂY"); slide 2 bỏ "Không cần dầu...phồng nhẹ và thơm"; slide 3 đổi "Bọc khăn/giấy bếp ẩm" (bỏ "1 lớp"); slide 5 thêm "Thời gian tham khảo, tuỳ loại bánh"; chữ "giây" đổi sang ớt đỏ ở slide 2–4.
+- Cả 3 mẫu: thay "@trang-cua-ban" bằng ô trống viền đỏ `[TÊN THƯƠNG HIỆU]`.
+- Chụp lại 7 PNG (giữ nguyên tên file) bằng `node chup.js`, đã xem lại cả 7 sau lần chụp cuối: không tràn chữ, dấu tiếng Việt rõ.
+- Còn tồn: slide 4 carousel còn dòng "Hợp khi hâm nhiều cái cùng lúc cho cả nhà" và slide 3 còn "Hơi ẩm giữ bánh mềm, dễ cuốn, ít nứt" (biên tập không nêu, nhưng không có trong nghien-cuu.md; có thể bỏ nếu muốn bám nguồn tuyệt đối). PNG vẫn dùng font dự phòng Liberation Sans.
